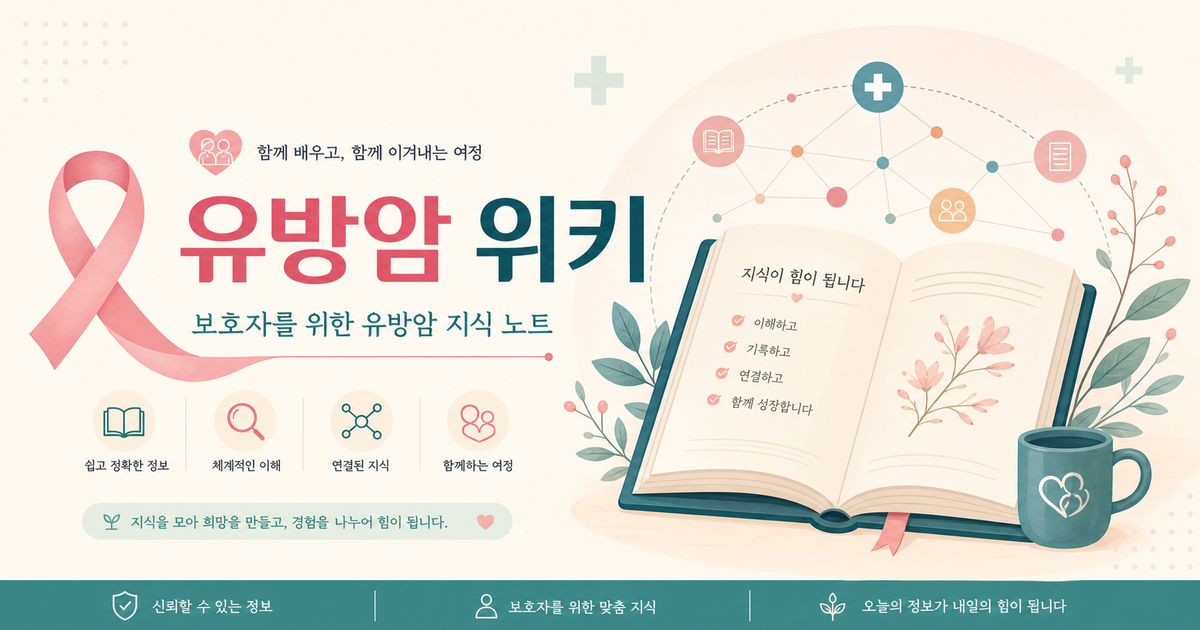
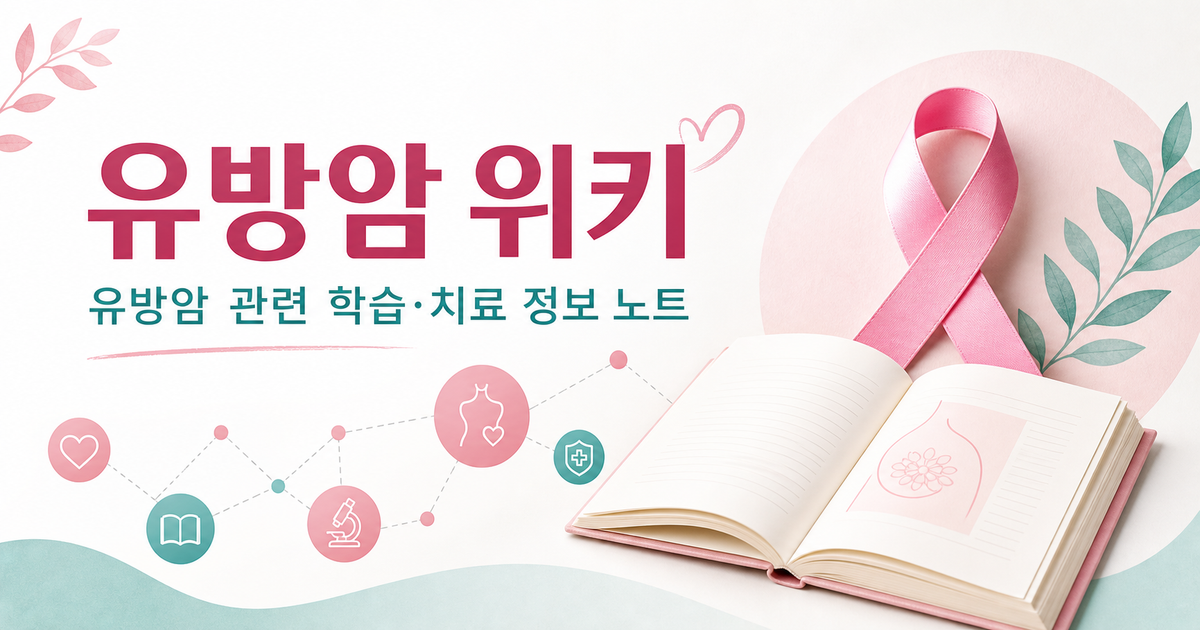
feat: update breast cancer wiki og thumbnail

diff --git a/content/index.md b/content/index.md
@@ -3,6 +3,8 @@ title: 유방암 위키
 socialImage: og-image.png
 ---
 
+![유방암 위키 - 유방암 관련 학습·치료 정보 노트](/static/og-image.png)
+
 공개하는 유방암 관련 학습·치료 정보 노트입니다.
 
 ## 문서 목록
